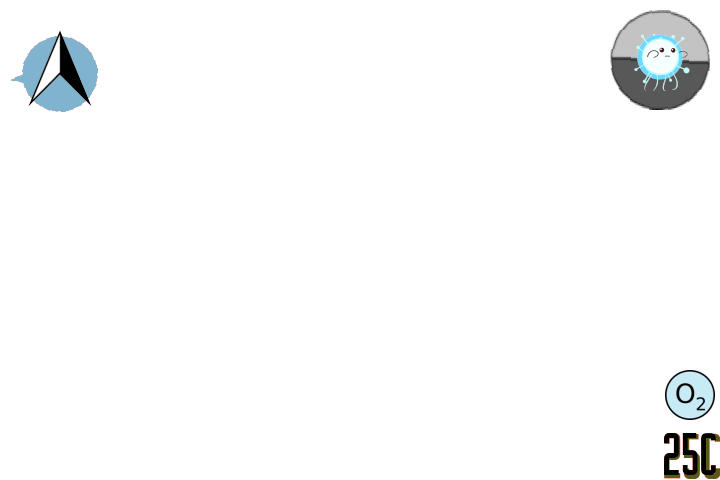
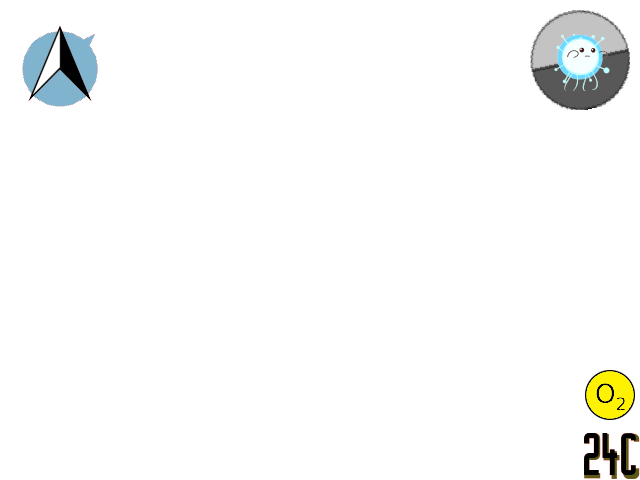
added multi threading

diff --git a/HUD.py b/HUD.py
@@ -1,46 +1,70 @@
 from PIL import Image, ImageDraw, ImageFont
+import threading
 import math
+from sensor import *
+
+class drawthread(threading.Thread):
+    def __init__(self):
+        threading.Thread.__init__(self)
+
+    def run(self):
+        DrawNew()
+        print(starting thread)
+
+
+def DrawNew()
+    while 1:
+        sensoPlug = GetData()
+        Overlay(sensoPlug[2], sensoPlug[1], sensoPlug[3], sensoPlug[0])
+
+
+
+
+
 
 def Overlay(temperature, angle, oxygen_level , heading):
-    hud = Image.new('RGBA', (720, 480), (255, 0, 0, 0))
+    hud = Image.new('RGBA', (640, 480), (255, 0, 0, 0))
+    width, height = hud.size
 
     #Temperature
     tempString = str(temperature) + "C"
     tempDraw = ImageDraw.Draw(hud)
-    font_forground = ImageFont.truetype("Cataclysmo.otf", 60)
-    font_background = ImageFont.truetype("Cataclysmo.otf", 65)
+    font_forground = ImageFont.truetype("Assets\Cataclysmo.otf", 60)
+    font_background = ImageFont.truetype("Assets\Cataclysmo.otf", 65)
     if temperature <= 10:
-        tempDraw.text((662, 430), tempString, font=font_background, fill=(68, 85, 90, 255))
+        tempDraw.text((width-58, height-50), tempString, font=font_background, fill=(68, 85, 90, 255))
     elif temperature >= 26 & temperature <= 35:
-        tempDraw.text((662, 430), tempString, font=font_background, fill=(92, 89, 24, 255))
+        tempDraw.text((width-58, height-50), tempString, font=font_background, fill=(92, 89, 24, 255))
     elif temperature > 35:
-        tempDraw.text((662, 430), tempString, font=font_background, fill=(92, 25, 4, 255))
+        tempDraw.text((width-58, height-50), tempString, font=font_background, fill=(92, 25, 4, 255))
     else:
-        tempDraw.text((662, 430), tempString, font=font_background, fill=(70, 68, 67, 255))
-    tempDraw.text((662, 430), tempString, font=font_forground, fill=(0, 0, 0, 255))
+        tempDraw.text((width-58, height-50), tempString, font=font_background, fill=(70, 68, 67, 255))
+    tempDraw.text((width-58, height-50), tempString, font=font_forground, fill=(0, 0, 0, 255))
 
 
     #Tilt
-    wisp_symbol = Image.open("Assets/wisp.png")
-    horizon = Image.open("Assets/horizon.png")
-    hud.paste(horizon.rotate(angle), (610, 10))
-    hud.paste(wisp_symbol, (621, 22), wisp_symbol)
+    wisp_symbol = Image.open("Assets\wisp.png")
+    horizon = Image.open("Assets\horizon.png")
+    hud.paste(horizon.rotate(angle), (width-110, 10))
+    hud.paste(wisp_symbol, (width-99, 22), wisp_symbol)
 
     #Oxygen
     if oxygen_level == 0:
-        O2Level = Image.open("Assets/oxygenlvl1.png")
+        O2Level = Image.open("Assets\oxygenlvl1.png")
     elif oxygen_level == 1:
-        O2Level = Image.open("Assets/oxygenlvl2.png")
+        O2Level = Image.open("Assets\oxygenlvl2.png")
     else:
-        O2Level = Image.open("Assets/oxygenlvl3.png")
-    hud.paste(O2Level, (665, 370))  # x by y
+        O2Level = Image.open("Assets\oxygenlvl3.png")
+    hud.paste(O2Level, (width-55, height-110))  # x by y
 
     #Compasss
-    compback = Image.open("Assets/compass.png")
-    needle = Image.open("Assets/_needle.png")
-    hud.paste(compback.rotate(heading, center=(50, 69)), (10, 5), compback.rotate(heading, center=(50, 69)))
-    hud.paste(needle, (28, 30), needle)
+    compback = Image.open("Assets\compass.png")
+    needle = Image.open("Assets\_needle.png")
+    hud.paste(compback.rotate(heading, center=(50, 69)), (10, 0), compback.rotate(heading, center=(50, 69)))
+    hud.paste(needle, (28, 25), needle)
 
 
     hud.save('hud.png', 'PNG')
     return
+
+

diff --git a/wisp_gui.py b/wisp_gui.py
@@ -3,20 +3,23 @@ from PyQt5.QtWidgets import *
 from PyQt5.QtGui import *
 from PyQt5.QtCore import *
 from HUD import *
-from sensor import *
+import threading
+#from sensor import *
 import cv2
 
 class HUD(QWidget):
     def __init__(self):
         super().__init__() # Run QWidget init
         self.vid = Video() # Create video object
+        self.hudthread = drawthread()
         self.setWindowTitle("WISP")
-        self.setGeometry(0, 0, 720, 480)
+        self.setGeometry(0, 0, 640, 480)
         self.initHUD()
         self.show()
 
     # Setup Window
     def initHUD(self):
+        self.hudthread.start()
         self.layout = QGridLayout()
         self.vid.start_camera()
         # Add Widget to Layout
@@ -53,8 +56,8 @@ class Video(QWidget):
             popUp.exec_()
             return
         self.timer.timeout.connect(self.update)
-        self.HudTimer.timeout.connect(self.refresh)
-        self.HudTimer.start(1000.)
+        #self.HudTimer.timeout.connect(self.refresh)
+        #self.HudTimer.start(1000.)
         self.timer.start(1000. /self.fps) # start once every 41msec
 
     # Draw the new frame to replace the old one
@@ -65,14 +68,15 @@ class Video(QWidget):
         img = QImage(frame, frame.shape[1], frame.shape[0], QImage.Format_RGB888)
         pix = QPixmap.fromImage(img)
         self.picture.setPixmap(pix)
-
+        Overlay(24, 12, 1, -45)
+        self.gui.setPixmap(QPixmap('hud.png'))
         
     # Draws hud overtop frame    
     @pyqtSlot()
     def refresh(self):
-        sensoPlug = GetData()
-        print(sensoPlug[2])
-        Overlay(sensoPlug[2], sensoPlug[1], sensoPlug[3], sensoPlug[0])
+        #sensoPlug = GetData()
+        #print(sensoPlug[2])
+        #Overlay(sensoPlug[2], sensoPlug[1], sensoPlug[3], sensoPlug[0])
         #self.test += 1
         #Overlay(45+self.test, 12+self.test, -50+self.test, self.test)
         self.gui.setPixmap(QPixmap('hud.png'))
